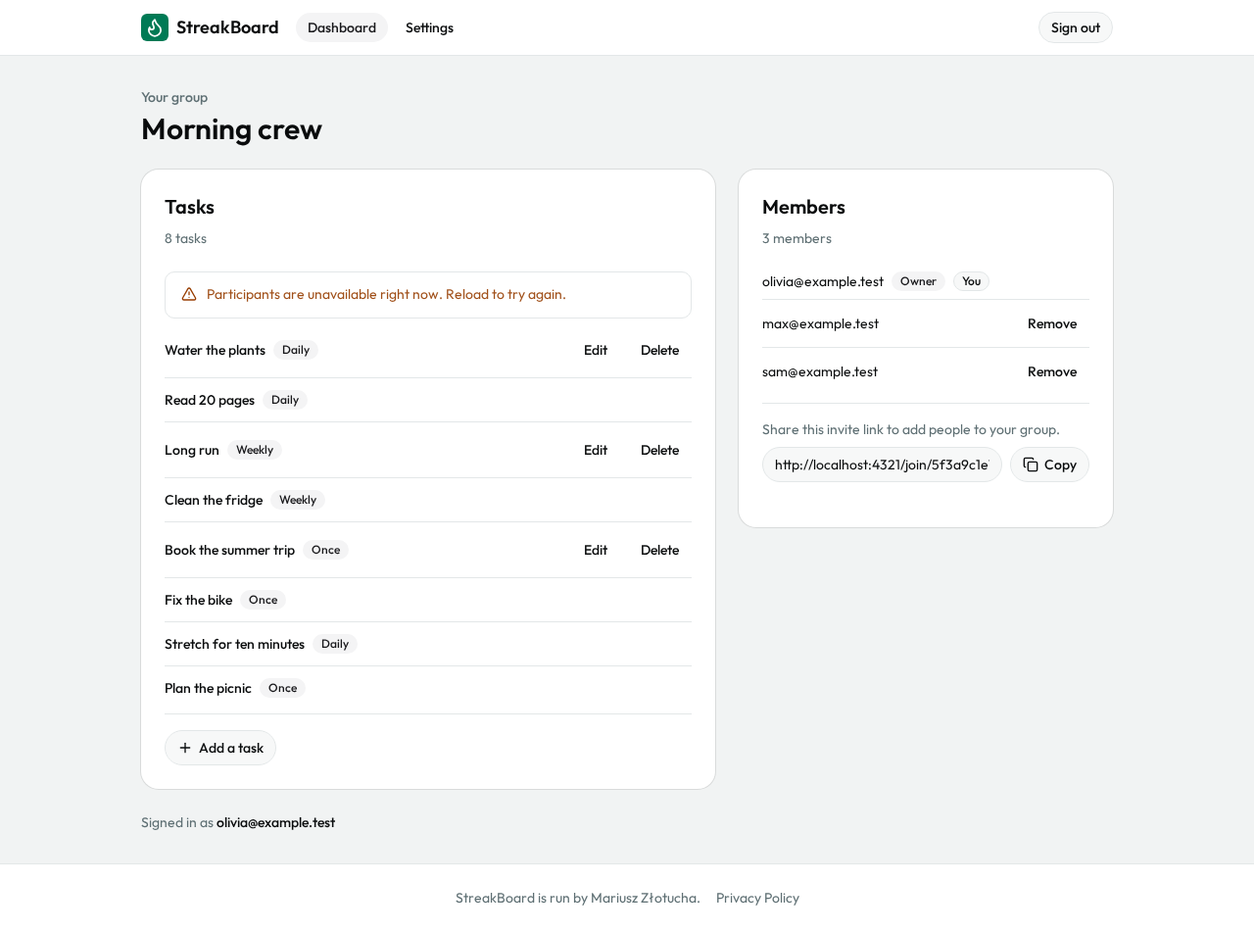
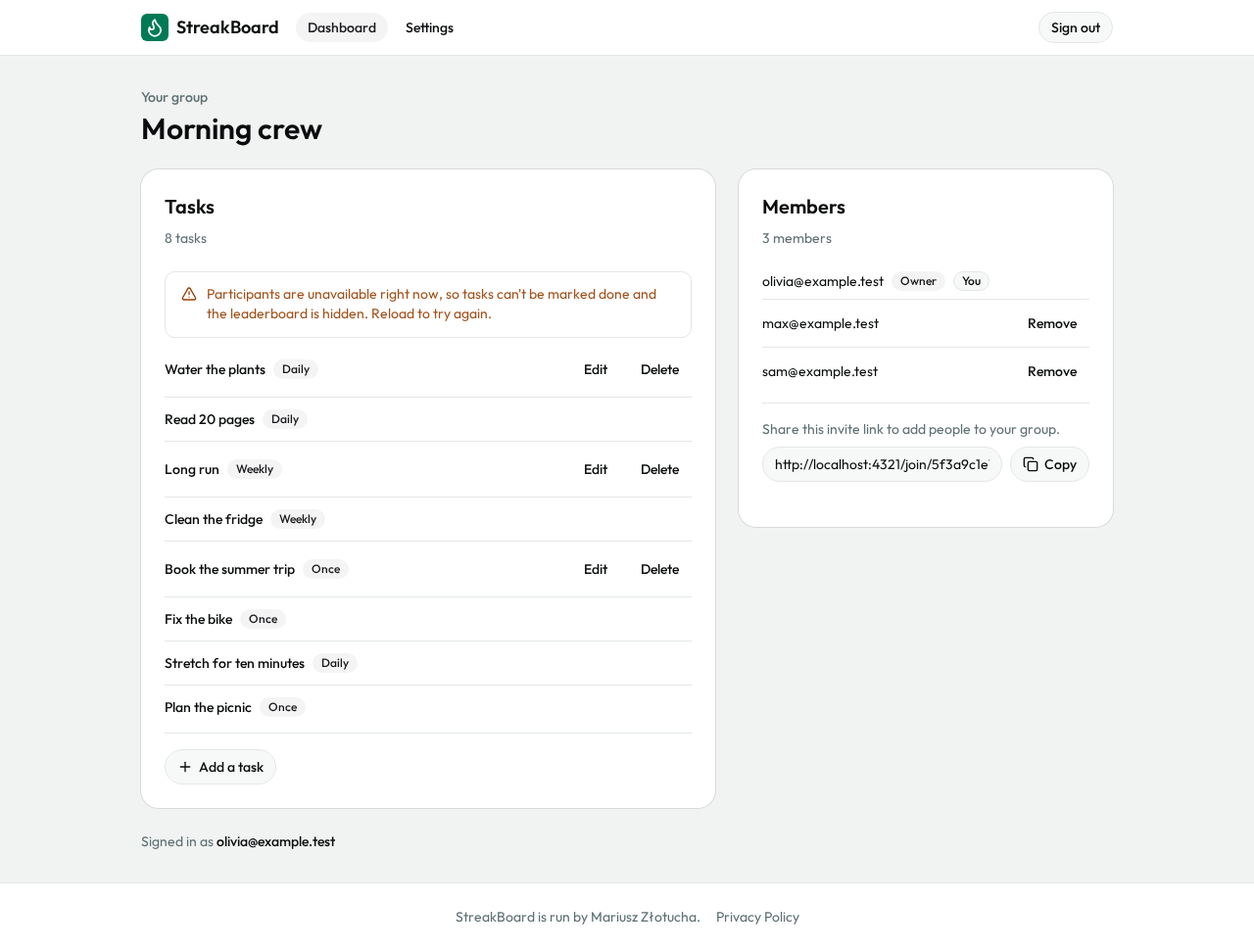
fix(dashboard-ui): apply the phase 2 implementation review (p2)
Review report context/changes/dashboard-ui/reviews/impl-review-phase-2.md
(APPROVED, 2 warnings and 4 observations, all fixed). Fixes: the view-file
lint guard and its CLAUDE.md rule also cover src/pages/settings.astro (F1);
the "Or start your own group" heading takes its typography from CardTitle,
so Phase 1's check 1.11 passes again (F2); the owner's settings smoke step
also asserts the delete control, and a settings step that repeated another
step's fixed-text check is removed (F3); loadSettings gets a test for a
throwing client factory (F4); the /settings 503 was checked with PostgREST
stopped and is recorded in change.md (F5); the participants-failed notice
says that tasks can't be marked done and the leaderboard is hidden, as the
check-offs notice does, with its two state screenshots recaptured (F6).
Also records the Phase 2 commit SHA in Progress.

Files: CLAUDE.md, eslint.config.js, scripts/smoke.mjs,
src/components/dashboard/{DashboardView,TasksCard}.astro,
src/components/dev/DashboardControlStates.tsx,
tests/unit/settings-data.test.ts,
context/changes/dashboard-ui/{plan,change}.md,
context/changes/dashboard-ui/reviews/impl-review-phase-2.md,
context/changes/dashboard-ui/screenshots/after-states-participants-failed-*

diff --git a/tests/unit/settings-data.test.ts b/tests/unit/settings-data.test.ts
@@ -68,4 +68,22 @@ describe("loadSettings", () => {
       error: { code: "PGRST000", status: 503 },
     });
   });
+
+  it("ends as loadFailed with one settings.load.failed report when creating the client throws", async () => {
+    const data = await loadSettings(
+      input({
+        createSupabase: () => {
+          throw new Error("boom");
+        },
+      }),
+    );
+    expect(data).toEqual({ group: null, loadFailed: true, error: groupErrorMessage("unknown") });
+    expect(groups.getMyGroup).not.toHaveBeenCalled();
+    expect(errorSpy).toHaveBeenCalledOnce();
+    expect(errorSpy.mock.calls[0][0]).toMatchObject({
+      level: "error",
+      event: "settings.load.failed",
+      route: "/settings",
+    });
+  });
 });

diff --git a/src/components/dev/DashboardControlStates.tsx b/src/components/dev/DashboardControlStates.tsx
@@ -135,7 +135,10 @@ export default function DashboardControlStates() {
         </Alert>
         <Alert variant="warning" role="status">
           <TriangleAlert />
-          <AlertDescription>Participants are unavailable right now. Reload to try again.</AlertDescription>
+          <AlertDescription>
+            Participants are unavailable right now, so tasks can&apos;t be marked done and the leaderboard is hidden.
+            Reload to try again.
+          </AlertDescription>
         </Alert>
       </StateCard>
 

diff --git a/eslint.config.js b/eslint.config.js
@@ -86,6 +86,7 @@ const UI_LITERAL_MESSAGE =
 const viewLiteralsConfig = defineConfig({
   files: [
     "src/pages/dashboard.astro",
+    "src/pages/settings.astro",
     "src/pages/dev/**",
     "src/layouts/**",
     "src/components/{dashboard,tasks,groups,forms,site,dev}/**",

diff --git a/context/changes/dashboard-ui/reviews/impl-review-phase-2.md b/context/changes/dashboard-ui/reviews/impl-review-phase-2.md
@@ -1,0 +1,219 @@
+<!-- IMPL-REVIEW-REPORT -->
+
+# Implementation Review: Dashboard UI Implementation Plan
+
+- **Plan**: context/changes/dashboard-ui/plan.md
+- **Scope**: Phase 2 of 3
+- **Reviewed phases**: 2
+- **Date**: 2026-10-12
+- **Verdict**: APPROVED (after triage: F1–F6 fixed)
+- **Findings**: 0 critical, 2 warnings, 4 observations
+
+## Verdicts
+
+| Dimension           | Verdict               |
+| ------------------- | --------------------- |
+| Plan Adherence      | PASS                  |
+| Scope Discipline    | PASS                  |
+| Safety & Quality    | PASS (3 observations) |
+| Architecture        | PASS                  |
+| Pattern Consistency | WARNING (2 findings)  |
+| Success Criteria    | PASS (1 observation)  |
+
+## Scope and evidence
+
+- **Code reviewed.** Commit `2eba8e5` on `s-11/dashboard-ui/phase-2` (not pushed), compared with `origin/master` at `7ca7942`. The diff has 167 files, 128 of them screenshots.
+- **The plan as amended.** The owner's decisions after the manual check (`change.md`, "Decyzje właściciela po przeglądzie ręcznym fazy 2", 2026-10-12) amend the plan:
+  - group settings live on a new protected `/settings` page;
+  - the header gets a Main nav;
+  - the grid is 3:2 from 1024 px;
+  - the matrix's destructive cells come from the `settings-owner` and `settings-member` states.
+
+  `plan.md` is deliberately unchanged; the amendments list the plan items they replace.
+
+- **Plan adherence.** All 14 planned changes match the amended plan, and nothing planned is missing.
+  - `dashboard.astro:7-27` (the user, the destructuring and the `loadDashboard({...})` call) is byte-identical to master, so the S-12 overlap stays a one-line conflict. Only the layout import changed.
+  - `dashboard.astro:30` sets 503 only on `loadFailed`.
+  - The inline script (`:54-62`) deletes only `error`, keeps the other parameters and the hash, and interpolates nothing.
+  - The smoke helper region (`smoke.mjs:1-343`) is byte-identical to master. Every step that change 11 requires is present, adapted to `/settings`.
+  - Every "shot" cell of the 7-state matrix has a desktop and a mobile file: 45 `after-controls-*` names and 15 `after-states-*` names.
+- **Unplanned files.** All are covered by the owner's decisions:
+  - `src/pages/settings.astro`, `src/components/dashboard/SettingsView.astro`, `src/lib/settings-data.ts` and `tests/unit/settings-data.test.ts`;
+  - `src/middleware.ts` (`/settings` in `PROTECTED_ROUTES`);
+  - `scripts/ui-screenshots.mjs` (settings states, `nav-link`).
+- **Boundaries held.** None of these changed: the API routes, `loadDashboard` and its tests, migrations, package files, `Banner.astro` and `auth-state.ts`. The `/settings` loader reports `settings.load.failed` through `reportError` with `requestFields` (lesson on Supabase errors).
+- **Public pages.** `SiteHeader.astro` changed for both layouts: the brand link is now wrapped in a flex `div` with a `nav` slot.
+  - A fresh `public` capture from `astro dev` is pixel-identical to the committed `phase1-public-*`: 8 of 8 shots, both widths, compared with PIL.
+  - The capture went to the scratchpad and is not committed.
+- **Runtime probes.**
+  - On the production preview, anonymous requests to `/settings`, `/settings/`, `/settings?x=1` and `/settings/foo` answer 302 to `/auth/signin`.
+  - `/settingsx` answers 404.
+  - The kitchen-sink settings states answer 404.
+  - On `astro dev`, every kitchen-sink state, the four settings states included, carries Phase 1's capture-phase `submit` listener.
+- **Not raised.**
+  - `DashboardView.astro:58` tests `group && inviteLink`. That equals `group`, since `dashboard.astro:32` always builds the link; it serves as type narrowing.
+  - The `<summary>` classes are duplicated in `DashboardControlStates.tsx:22`. The gate's summary shots use the real `owner` state.
+  - S-12's plan still points to `dashboard.astro:33-38`, while the call has been at `:22-27` since Phase 1.
+  - `change.md` calls `PageHeading` the only `<h1>` typography. The pending invite's `<h1>` is a `CardTitle`, as plan change 7 prescribes.
+  - The settings copy ("Settings", "Settings didn't load", the no-group sentence) is not in the wording table.
+
+## Success criteria (Phase 2)
+
+| #         | Check                                     | Result                                                                                                                   |
+| --------- | ----------------------------------------- | ------------------------------------------------------------------------------------------------------------------------ |
+| 2.1       | `npm run lint`                            | PASS, exit 0                                                                                                             |
+| 2.2       | Literal scan of the view files            | PASS, no output (also none in `src/pages/settings.astro`)                                                                |
+| 2.3       | `node scripts/token-contrast.mjs`         | PASS, exit 0, 17 gating pairs; D6 3.51:1 as information only                                                             |
+| 2.4       | `npx astro sync && npx astro check`       | PASS, 0 errors and 0 warnings; the 4 hints are in older `context/audits/` probe files                                    |
+| 2.5       | `npm run build`                           | PASS; no `example.test` anywhere in `dist/`                                                                              |
+| 2.6       | `npm test`                                | PASS, 30 files and 408 tests (Phase 1: 29 and 404; the new file adds 4)                                                  |
+| 2.7       | Smoke against the production preview      | PASS, 228 steps and `INFO  production build` (see the note below)                                                        |
+| 2.8       | `npx playwright test` against the preview | PASS, 3 tests                                                                                                            |
+| 2.9       | Removed pieces and old wording are gone   | PASS, no output                                                                                                          |
+| 2.10      | `gh pr checks`                            | PENDING by design: the branch has no upstream and no PR; it is pushed only after this review is triaged                  |
+| 2.11–2.17 | Manual                                    | Ticked. The evidence is below; 2.13 leaves no artifact by nature, and the `/settings` 503 is not covered by any row (F5) |
+
+Evidence for the manual rows:
+
+- **2.11.** Each "shot" cell has its files, including:
+  - `checkoff-pending`, `checkoff-failed`, `dialog-submitting` and `copy-fallback`;
+  - `nav-link-*` (the owner's amendment 5).
+- **2.12.** `after-states-*` at both widths. The smoke step "owner dashboard with a task orders the cards by the main loop" asserts Tasks → Leaderboard → Members.
+- **2.13.** `dashboard.astro:30`. The check stops PostgREST by hand, so the diff can hold no artifact.
+- **2.14.** The smoke step "member dashboard with ?error=forbidden shows the alert first and drops the code from the address": the alert is inside `<main>` before the `<h1>`, and the `replaceState` script is present.
+- **2.15.** The `*-focus-*` shots and the roles in the markup: notices use `role="status"`, errors `role="alert"`, and the current nav link has `aria-current="page"`.
+- **2.16.** The rewritten pending-invite smoke step, and `after-states-pending-invite-*`.
+- **2.17.** The `change.md` section "Wynik zarzutów, odroczenia i przekazania" covers C1–C5, D1–D6 and the S-12 and S-13 handoffs. The S-12 note is at `refactor-opportunities/plan.md:111`.
+
+Note on 2.7:
+
+- As in Phase 1, this checkout has no `CONTACT_EMAIL` in `.dev.vars`, which smoke's privacy step needs.
+- For this run, `CONTACT_EMAIL=contact@example.com` was appended only to the build's copy `dist/server/.dev.vars`; the source `.dev.vars` was not touched.
+- The copy was restored afterwards with a matching checksum.
+
+## After triage
+
+All six findings were fixed in the working tree of `s-11/dashboard-ui/phase-2`, and the Phase 2 gates were rerun on that tree:
+
+| #    | Check                                      | Result                                                                                                   |
+| ---- | ------------------------------------------ | -------------------------------------------------------------------------------------------------------- |
+| 2.1  | `npm run lint`                             | PASS, exit 0                                                                                             |
+| 2.2  | Literal scan of the view files             | PASS, no output (`src/pages/settings.astro` included)                                                    |
+| 2.3  | `node scripts/token-contrast.mjs`          | PASS, exit 0                                                                                             |
+| 2.4  | `npx astro sync && npx astro check`        | PASS, 0 errors and 0 warnings; the same 4 hints                                                          |
+| 2.5  | `npm run build`                            | PASS; no `example.test` anywhere in `dist/`                                                              |
+| 2.6  | `npm test`                                 | PASS, 30 files and 409 tests (one more, from F4)                                                         |
+| 2.7  | Smoke against the production preview       | PASS, 227 steps (F3 removed a duplicate) and `INFO  production build`; `CONTACT_EMAIL` handled as before |
+| 2.8  | `npx playwright test` against the preview  | PASS, 3 tests                                                                                            |
+| 2.9  | Removed pieces and old wording are gone    | PASS, no output                                                                                          |
+| 1.11 | Phase 1: no heading nested in a card title | PASS again: both commands print nothing                                                                  |
+
+## Findings
+
+### F1 — /settings is outside the view-literal lint guard
+
+- **Severity**: ⚠ WARNING
+- **Impact**: 🏃 LOW — quick decision; fix is obvious and narrowly scoped
+- **Dimension**: Pattern Consistency
+- **Location**: eslint.config.js:87-92, CLAUDE.md:35
+- **Detail**: Phase 1's guard (`viewLiteralsConfig`, charge C5) lists `src/pages/dashboard.astro` and the view folders. It does not list the new view page `src/pages/settings.astro`, and the CLAUDE.md "No literals" bullet names the same files.
+  - A stdin probe with `<div class="bg-red-500">` reports `no-restricted-syntax` as `src/pages/dashboard.astro`, but only a Prettier error as `src/pages/settings.astro`.
+  - Nothing slips through today: the page holds no class strings, and `SettingsView`, `GroupSettingsCard` and `AppLayout` are covered.
+  - The first markup added to the page would go unchecked.
+- **Fix**: Add `"src/pages/settings.astro"` to `viewLiteralsConfig.files` and to the file list in CLAUDE.md:35, then rerun `npm run lint` and the stdin probe as `src/pages/settings.astro`.
+- **Decision**: FIXED (Fix now). `src/pages/settings.astro` is now in `viewLiteralsConfig.files` (`eslint.config.js:89`) and in the CLAUDE.md:35 list.
+  - `npm run lint` passes over the whole repo.
+  - The stdin probe with `bg-red-500` as `src/pages/settings.astro` now reports `no-restricted-syntax`.
+
+### F2 — Card-heading typography copied onto a section heading
+
+- **Severity**: ⚠ WARNING
+- **Impact**: 🏃 LOW — quick decision; fix is obvious and narrowly scoped
+- **Dimension**: Pattern Consistency
+- **Location**: src/components/dashboard/DashboardView.astro:107
+- **Detail**: The pending-invite page's `<h2>Or start your own group</h2>` carries `font-heading text-xl font-semibold`, the exact default of `CardTitle` (`ui/card.tsx:38`).
+  - Phase 1 moved that typography into `CardTitle` (charge C2). Its check 1.11 (`rg -n "font-heading text-xl font-semibold" src/components/dashboard src/components/tasks` prints nothing) passed at the time.
+  - On this branch the check prints this line, so the full-plan review will fail 1.11.
+  - The heading is not nested in a card title, so 1.11's first command still passes.
+- **Fix**: Render it as `<CardTitle as="h2">Or start your own group</CardTitle>`, so the typography comes from `ui/card.tsx`. Nothing styles `data-slot="card-title"` outside a card, and smoke's `/<h2[^>]*>\s*Or start your own group\s*<\/h2>/` (`smoke.mjs:942`) still matches.
+- **Decision**: FIXED (Fix now). `DashboardView.astro:107` now renders `<CardTitle as="h2">` (already imported).
+  - Both commands of Phase 1's check 1.11 print nothing again, and ESLint passes on the file.
+  - The smoke rerun after all fixes is recorded under "After triage".
+
+### F3 — Two settings smoke steps assert less than their names say
+
+- **Severity**: ℹ OBSERVATION
+- **Impact**: 🏃 LOW — quick decision; fix is obvious and narrowly scoped
+- **Dimension**: Safety & Quality
+- **Location**: scripts/smoke.mjs:1047, scripts/smoke.mjs:1667
+- **Detail**:
+  - **`:1047`.** "settings shows the owner the new name with rename and delete, and no leave" asserts the rename form, but no delete control. Steps `:894` and `:1151` do assert one.
+  - **`:1667`.** "user B's settings warn that leaving the group erases the streaks" (comment: "B takes part in a task now") asserts only the group Leave dialog's description.
+    - That text is fixed for every member (`GroupSettingsCard.astro:49`), and `:999` already asserts it.
+    - So the step cannot fail for the reason it exists, which goes against the lesson "Smoke steps must assert outcomes, not just the absence of errors".
+    - On master the same text was one of the dashboard step's `bodyIncludes`, so the weakness was carried over, not introduced.
+- **Fix**: Add `formPostingTo("/api/groups/delete")` and `dialogTrigger("Delete group")` to `:1047`, and drop `:1667`, which `:999` covers.
+- **Decision**: FIXED (Fix now).
+  - The step at `:1047` now also asserts the delete form and the "Delete group" dialog trigger.
+  - The step "user B's settings warn that leaving the group erases the streaks" is removed. `:999` asserts the same text, form and trigger for member B.
+  - ESLint and `node --check` pass on `scripts/smoke.mjs`.
+  - The smoke rerun after all fixes is recorded under "After triage".
+
+### F4 — No test for a throwing client factory in loadSettings
+
+- **Severity**: ℹ OBSERVATION
+- **Impact**: 🏃 LOW — quick decision; fix is obvious and narrowly scoped
+- **Dimension**: Safety & Quality
+- **Location**: tests/unit/settings-data.test.ts:34-71
+- **Detail**: `settings-data.ts:9` promises that "a throw while creating the client ends as `loadFailed` like any other".
+  - The dashboard loader's test covers the same promise (`dashboard-data.test.ts:83`).
+  - The four settings tests cover a group, no group, no Supabase and a failed read, but not a throwing `createSupabase`.
+- **Fix**: Add the case: when `createSupabase` throws, the result is `{ group: null, loadFailed: true, error: groupErrorMessage("unknown") }` with one `settings.load.failed` report.
+- **Decision**: FIXED (Fix now). `settings-data.test.ts` has the new case "ends as loadFailed with one settings.load.failed report when creating the client throws".
+  - The file passes: 5 tests. ESLint and Prettier pass too.
+  - Mutation check: moving `createSupabase()` out of the `try` in a temporary copy made the new test fail, and only that test. The file was restored with a matching checksum.
+
+### F5 — The /settings 503 has no check
+
+- **Severity**: ℹ OBSERVATION
+- **Impact**: 🏃 LOW — quick decision; fix is obvious and narrowly scoped
+- **Dimension**: Success Criteria
+- **Location**: src/pages/settings.astro:16
+- **Detail**: The owner's decision says `/settings` answers 503 on a failed load, but nothing exercises the page's status line or its "Settings didn't load" page against a real failure:
+  - manual check 2.13 covers only `/dashboard`;
+  - smoke cannot cause a failed load;
+  - the unit test stops at `loadFailed: true`.
+
+  The line mirrors `dashboard.astro:30`, which 2.13 checked.
+
+- **Fix**: Run the 2.13 procedure on `/settings` too, and note the result in change.md:
+  - signed in, with PostgREST stopped: 503, "Settings didn't load" and Try again;
+  - after starting it again, Try again loads the page.
+- **Decision**: FIXED (Fix now). The check ran on the production preview of `2eba8e5`, whose `settings.astro` and `settings-data.ts` are unchanged by this triage, with a throwaway local user named like smoke's.
+  - Before the outage: 200 with "Group settings".
+  - With `supabase_rest_10x-astro-starter` stopped, `/settings` answered 503. The `<h1>` was "Settings didn't load", "Try again" linked to `/settings`, and there was no group card.
+  - The preview log has `settings.load.failed` with the route and user id, and no e-mail.
+  - `/dashboard` answered 503 at the same time, which repeats 2.13.
+  - After `docker start`, Try again loaded the page (200).
+  - The first request after the stop waited about 60 s on the local gateway before failing. That timing comes from the local stack and predates this change.
+  - The result is recorded in `change.md`, under the owner's decisions, as an extension of 2.13. The test group was deleted, and the user stays in the local database like smoke's.
+
+### F6 — The participants notice does not say what else is missing
+
+- **Severity**: ℹ OBSERVATION
+- **Impact**: 🏃 LOW — quick decision; fix is obvious and narrowly scoped
+- **Dimension**: Safety & Quality
+- **Location**: src/components/dashboard/TasksCard.astro:38-43
+- **Detail**: When the participants fail to load, `loadDashboard` skips the board (`dashboard-data.ts:103`).
+  - Every row loses "Mark done" (`TaskRow.astro:57`), and the Leaderboard disappears (`DashboardView.astro:93`).
+  - The notice says only "Participants are unavailable right now. Reload to try again."
+  - The check-offs notice explains the same effect: "so tasks can't be marked done and the leaderboard is hidden".
+  - The plan kept the old text on purpose ("unchanged text", `plan.md:219`), so this is a gap in the plan, not drift. The behaviour predates S-11.
+- **Fix**: Give the participants notice the same explanation: "Participants are unavailable right now, so tasks can't be marked done and the leaderboard is hidden. Reload to try again." Record it as an owner decision in change.md, and recapture `after-states-participants-failed-*`.
+- **Decision**: FIXED (Fix now).
+  - The notice in `TasksCard.astro` and the kitchen sink's warning-alert sample in `DashboardControlStates.tsx` now carry the extended text. The JSX writes the apostrophe as `&apos;` for `react/no-unescaped-entities`.
+  - `change.md` records the wording as an owner decision that replaces the "Participants failed" row of the plan's wording table.
+  - All 15 states were recaptured from `astro dev` into the scratchpad and compared with PIL against the committed `after-states-*`.
+    - Only `after-states-participants-failed-{desktop,mobile}.png` changed: they are 20 px and 40 px taller, for the longer notice. Those two were replaced.
+    - The other 28 are pixel-identical. That includes `pending-invite`, which confirms that F2's `CardTitle` has no visual effect.
+  - The archived S-04 review (`2026-10-01-checkoff-and-leaderboard/reviews/impl-review-phase-4.md:53`) had dismissed the vanishing controls as intended behaviour. This fix changes only the notice's wording.

diff --git a/CLAUDE.md b/CLAUDE.md
@@ -32,7 +32,7 @@ Astro 7 SSR app (`output: "server"` in `astro.config.mjs`) with React 19 islands
 
 - **Tokens.** Colours, radii and fonts live in `src/styles/global.css`: values in `:root` and `.dark`, published to Tailwind by `@theme inline`. A new token goes into all three blocks, with its raw value and source in the change's `tokens-source/` folder, and `node scripts/token-contrast.mjs` must pass (CI runs it after lint).
 - **Components.** They live in `src/components/ui/` (`radix-maia`, lucide icons). Check there before creating one, and add a missing one with `npx shadcn@latest add <name>` (preview with `--dry-run`). The registry imports `cn` from the npm package `cn`: point the new file at `@/lib/utils` and restore the package files (`git checkout -- package.json package-lock.json && npm ci`); ESLint rejects the `cn` package import. Shared form pieces (`FormField`, `SubmitButton`) live in `src/components/forms/`.
-- **No literals.** No literal colours or arbitrary values in views; use tokens. In the dashboard view files (`src/pages/dashboard.astro`, `src/pages/dev/`, `src/layouts/`, `src/components/{dashboard,tasks,groups,forms,site,dev}/`) ESLint rejects hex colours, colour functions, Tailwind palette classes and arbitrary px/rem values; other arbitrary values (`%`, `calc()`, `var()`) are left to review. When prose trips the rule, reword it; do not weaken the rule.
+- **No literals.** No literal colours or arbitrary values in views; use tokens. In the dashboard view files (`src/pages/dashboard.astro`, `src/pages/settings.astro`, `src/pages/dev/`, `src/layouts/`, `src/components/{dashboard,tasks,groups,forms,site,dev}/`) ESLint rejects hex colours, colour functions, Tailwind palette classes and arbitrary px/rem values; other arbitrary values (`%`, `calc()`, `var()`) are left to review. When prose trips the rule, reword it; do not weaken the rule.
 - **No `asChild` from `.astro`.** Astro hands a React component its `.astro` children as static HTML, so `asChild` loses the child's props. Use `CardTitle as="h2"` for card headings, and `<a class:list={buttonVariants(...)}>` for link buttons.
 - **Smoke binds the markup.** `scripts/smoke.mjs` binds the dashboard markup with regular expressions (one `<li>` per task, exact `<h2>` card headings, badges and buttons holding only their text, `role="alert"` only for errors): keep its invariants, or change smoke in the same change.
 - **The gate.** The dev-only kitchen sink `/dev/dashboard-kitchen-sink` renders the real `DashboardView` from fixtures (`src/components/dev/dashboard-fixtures.ts`) in every page state, plus the control states. `scripts/ui-screenshots.mjs` captures them against a running `astro dev` (see `@README.md`, Smoke test).

diff --git a/context/changes/dashboard-ui/change.md b/context/changes/dashboard-ui/change.md
@@ -122,5 +122,10 @@ Przekazania:
   - decyzja właściciela 1 (układ desktopu): prawa kolumna to Leaderboard i Members, bez Group settings, w proporcji 3:2 zamiast około dwóch trzecich;
   - decyzja właściciela 10 (waga zarządzania): jedna karta „Group settings” jest na `/settings`, nie na końcu prawej kolumny dashboardu;
   - kontrola ręczna 2.12 (kolejność układu): na dashboardzie Tasks, potem Leaderboard i Members z linkiem zaproszenia; Group settings sprawdza się na `/settings`;
-  - macierz 7 stanów: komórki „KS owner/member” przycisków niszczących (Delete group, Leave group, potwierdzenia w dialogu) to teraz stany `settings-owner` i `settings-member`, a zrzuty `rename-group`, `delete-group`, `leave-group` i dialogów pochodzą z tych stanów; nowy zrzut `nav-link` pokrywa hover i focus linków Main nav.
+  - macierz 7 stanów: komórki „KS owner/member” przycisków niszczących (Delete group, Leave group, potwierdzenia w dialogu) to teraz stany `settings-owner` i `settings-member`, a zrzuty `rename-group`, `delete-group`, `leave-group` i dialogów pochodzą z tych stanów; nowy zrzut `nav-link` pokrywa hover i focus linków Main nav;
+  - kontrola ręczna 2.13 (503) obejmuje też `/settings`. Wynik z przeglądu implementacji fazy 2 (F5, 2026-10-12), na podglądzie produkcyjnym:
+    - przy zatrzymanym PostgREST zalogowany właściciel dostał 503 ze stroną „Settings didn't load” i „Try again”, a w logu raport `settings.load.failed`;
+    - `/dashboard` w tym samym czasie odpowiedział 503;
+    - po starcie kontenera „Try again” załadował stronę;
+  - tabela sformułowań, wiersz „Participants failed” (decyzja z przeglądu implementacji fazy 2, F6, 2026-10-12): bez uczestników loader nie liczy tablicy wyników, więc znikają „Mark done” i Leaderboard. Komunikat mówi to teraz tak jak ten o odznaczeniach: „Participants are unavailable right now, so tasks can't be marked done and the leaderboard is hidden. Reload to try again.” (zamiast „unchanged text”).
 - **Polityka prywatności** nie mówi, na której stronie opuszcza się lub usuwa grupę, więc nie wymaga zmiany.

diff --git a/context/changes/dashboard-ui/plan.md b/context/changes/dashboard-ui/plan.md
@@ -1005,26 +1005,26 @@ This is a docs-only PR on `s-11/dashboard-ui/phase-3`; the CI jobs skip at job l
 
 #### Automated
 
-- [x] 2.1 Lint passes
-- [x] 2.2 Literal scan of the view files prints nothing
-- [x] 2.3 Token contrast gate passes
-- [x] 2.4 Astro check passes
-- [x] 2.5 Production build passes
-- [x] 2.6 Vitest suite passes
-- [x] 2.7 Smoke passes against the production preview with the rewritten and new dashboard steps
-- [x] 2.8 Playwright suite passes against the production preview
-- [x] 2.9 Removed pieces and old wording are gone
+- [x] 2.1 Lint passes — 2eba8e5
+- [x] 2.2 Literal scan of the view files prints nothing — 2eba8e5
+- [x] 2.3 Token contrast gate passes — 2eba8e5
+- [x] 2.4 Astro check passes — 2eba8e5
+- [x] 2.5 Production build passes — 2eba8e5
+- [x] 2.6 Vitest suite passes — 2eba8e5
+- [x] 2.7 Smoke passes against the production preview with the rewritten and new dashboard steps — 2eba8e5
+- [x] 2.8 Playwright suite passes against the production preview — 2eba8e5
+- [x] 2.9 Removed pieces and old wording are gone — 2eba8e5
 - [ ] 2.10 CI jobs ci, smoke and integration pass on the PR
 
 #### Manual
 
-- [x] 2.11 Every cell of the 7-state matrix is shown or N/A with its reason
-- [x] 2.12 Layout reads in the main-loop order on desktop and phone
-- [x] 2.13 A failed load answers 503 with the error page
-- [x] 2.14 An action error shows once and leaves the address
-- [x] 2.15 Keyboard and screen-reader pass
-- [x] 2.16 Pending invite is a single decision
-- [x] 2.17 Charges, deferrals and handoffs recorded in change.md
+- [x] 2.11 Every cell of the 7-state matrix is shown or N/A with its reason — 2eba8e5
+- [x] 2.12 Layout reads in the main-loop order on desktop and phone — 2eba8e5
+- [x] 2.13 A failed load answers 503 with the error page — 2eba8e5
+- [x] 2.14 An action error shows once and leaves the address — 2eba8e5
+- [x] 2.15 Keyboard and screen-reader pass — 2eba8e5
+- [x] 2.16 Pending invite is a single decision — 2eba8e5
+- [x] 2.17 Charges, deferrals and handoffs recorded in change.md — 2eba8e5
 
 ### Phase 3: Production release and records
 
